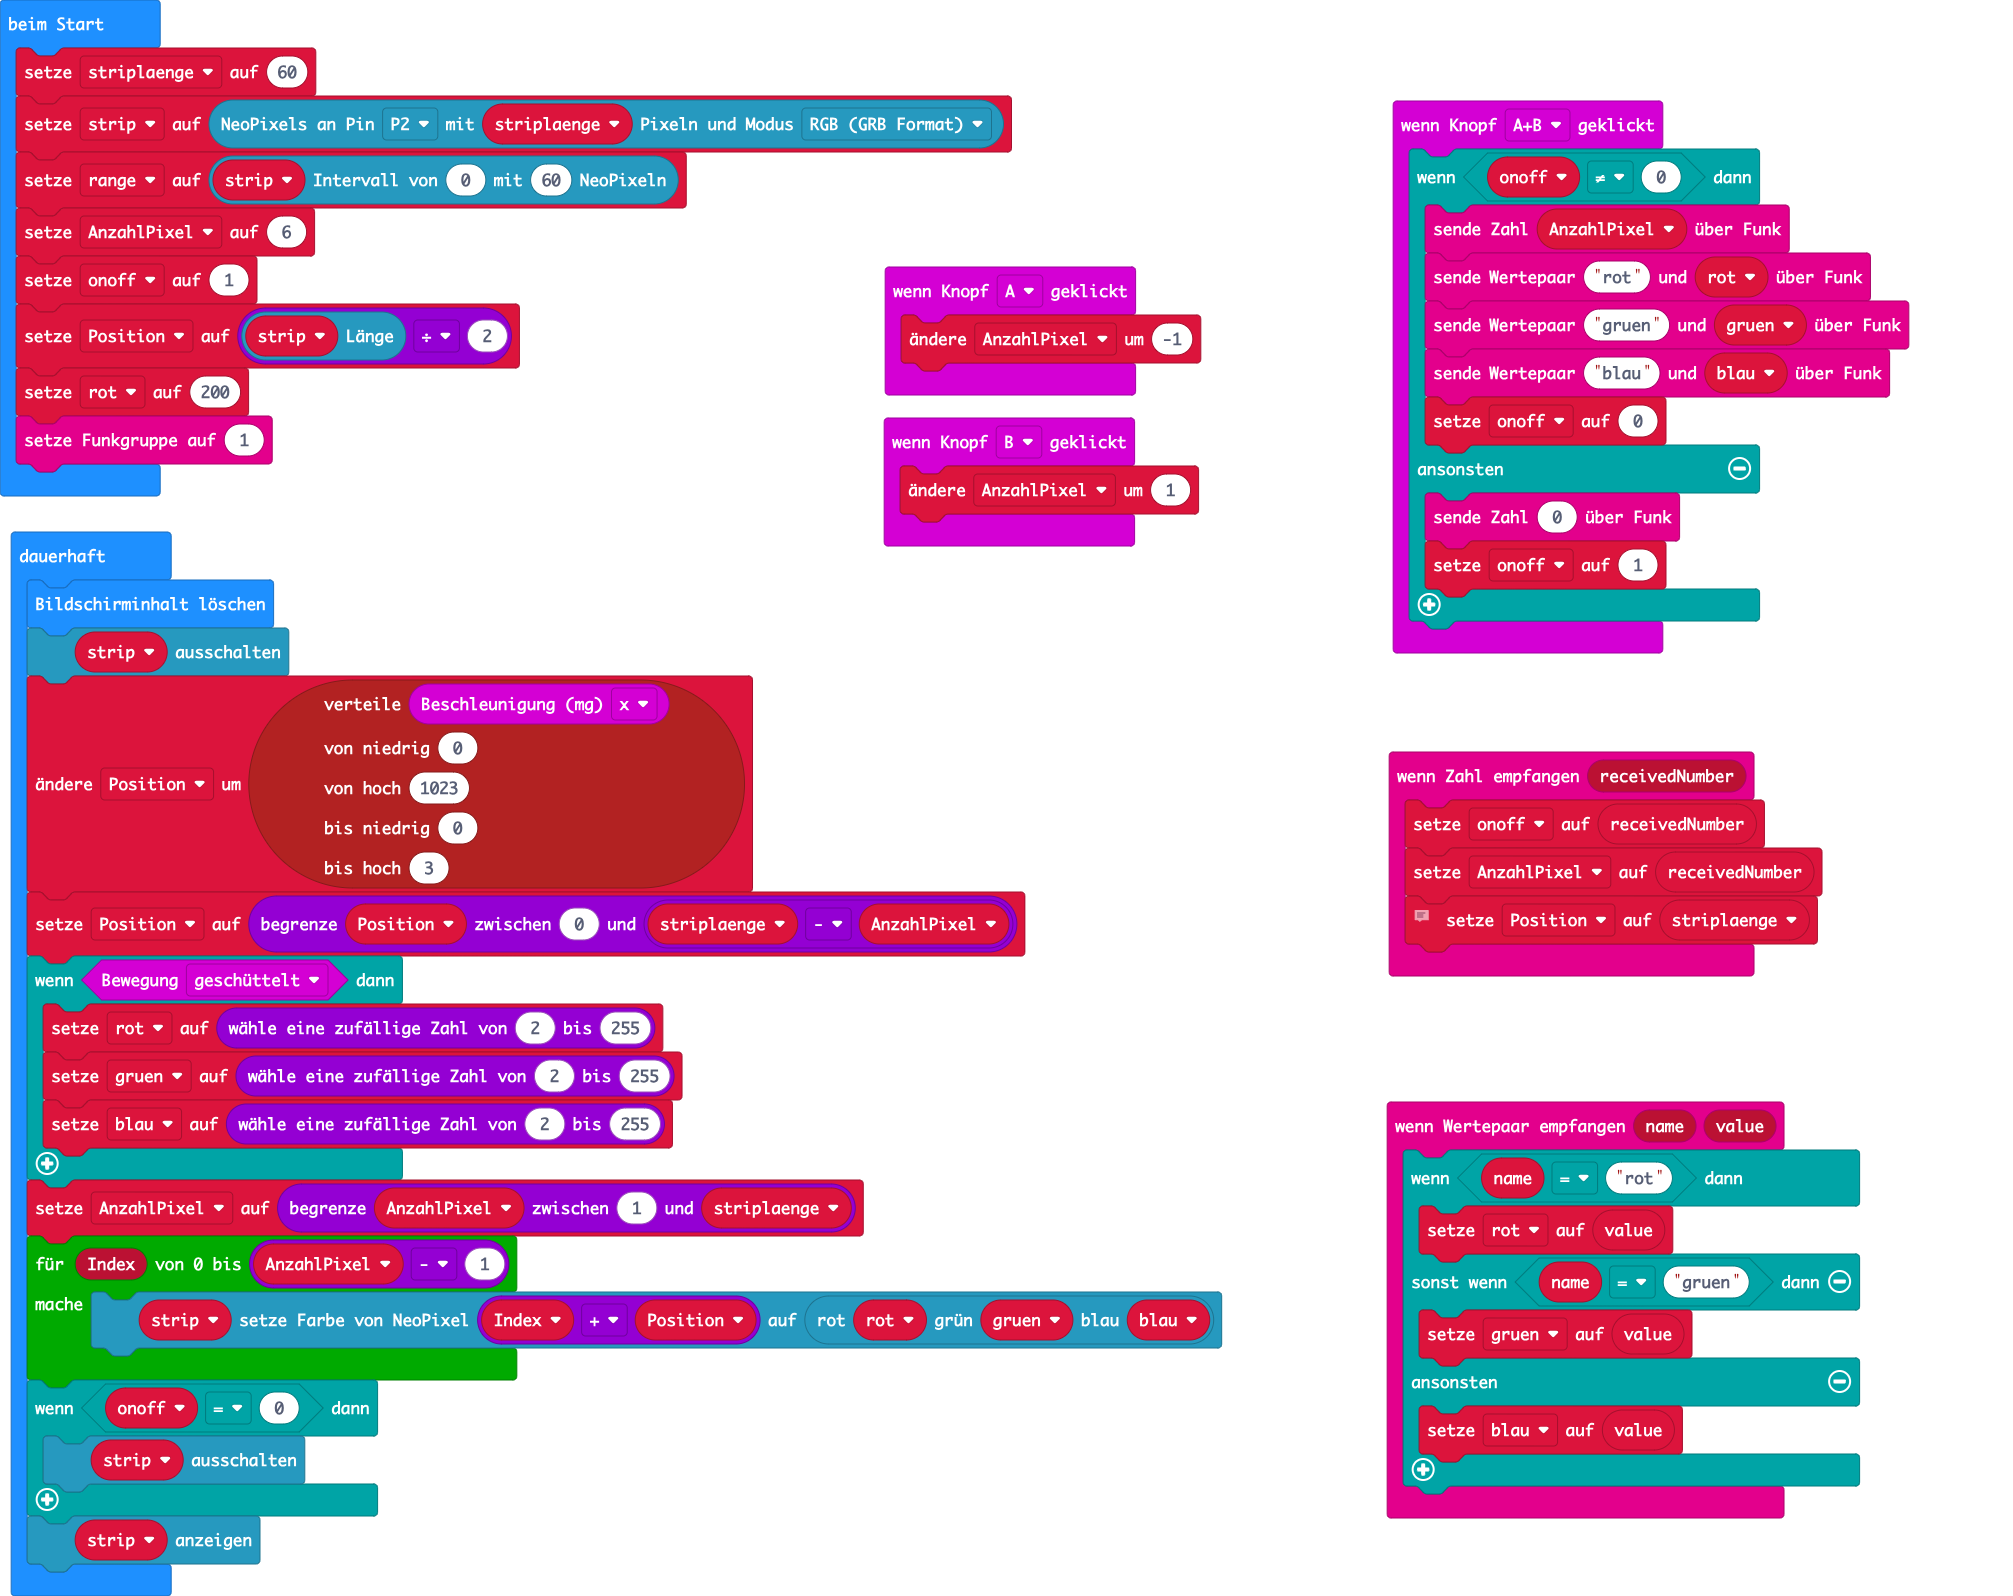
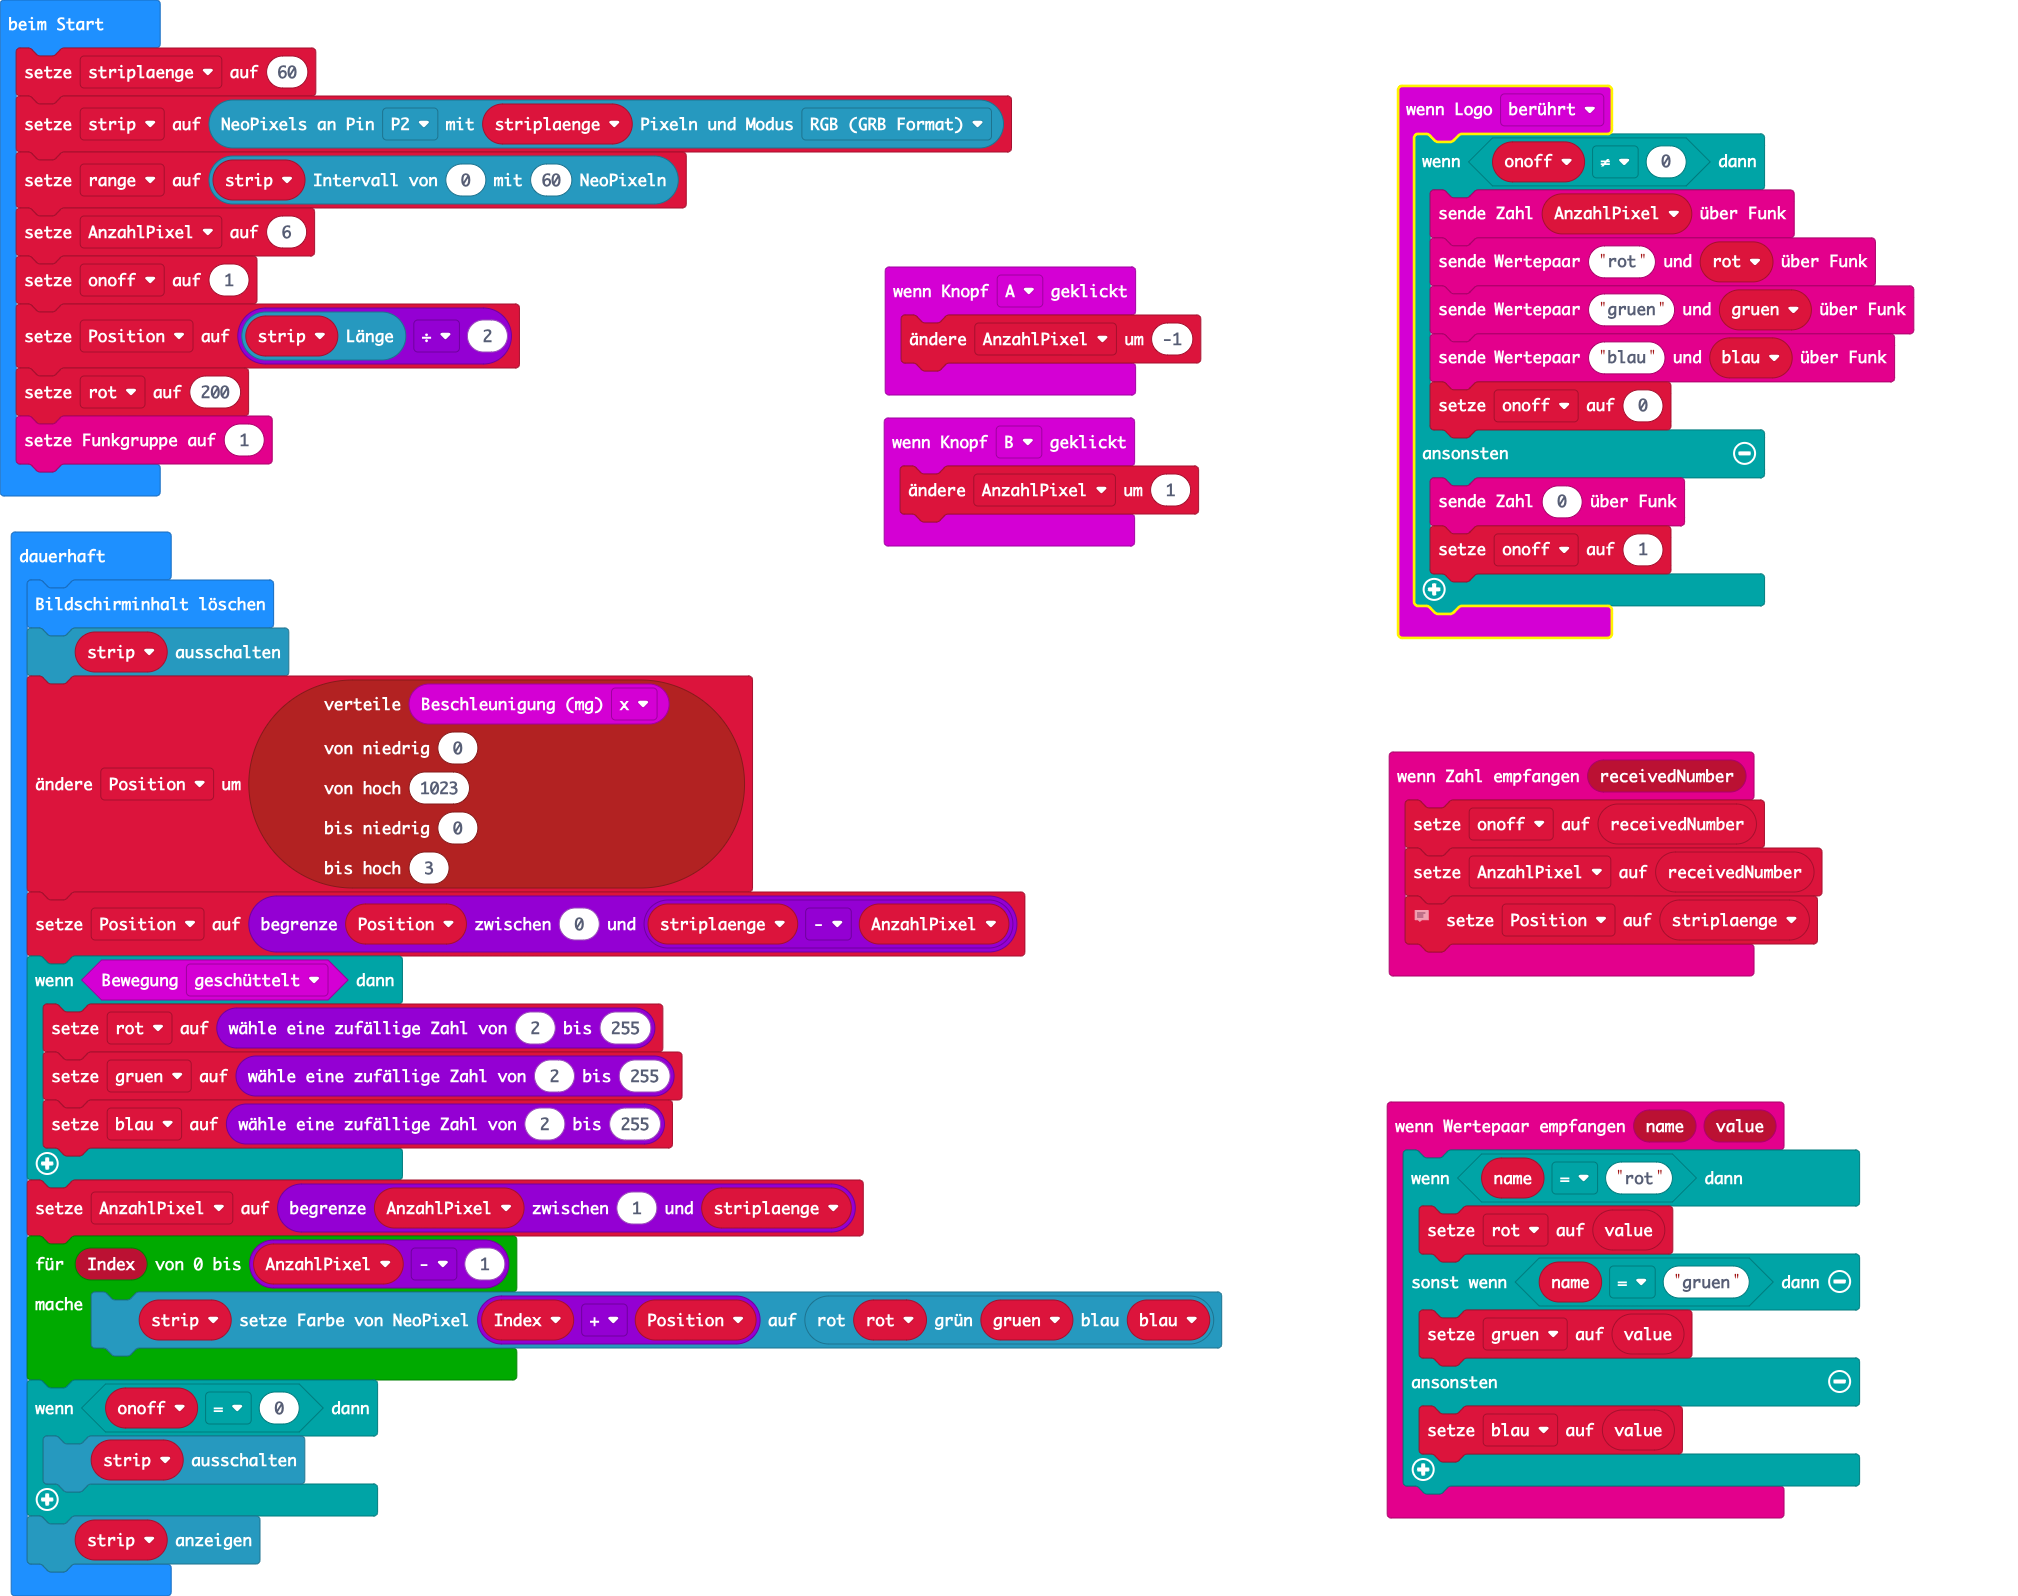
Touch-senden geändert

diff --git a/main.ts b/main.ts
@@ -4,10 +4,7 @@ radio.onReceivedNumber(function (receivedNumber) {
     // Licht wird an der Spitze empfangen
     Position = striplaenge
 })
-input.onButtonPressed(Button.A, function () {
-    AnzahlPixel += -1
-})
-input.onButtonPressed(Button.AB, function () {
+input.onLogoEvent(TouchButtonEvent.Touched, function () {
     if (onoff != 0) {
         radio.sendNumber(AnzahlPixel)
         radio.sendValue("rot", rot)
@@ -18,6 +15,9 @@ input.onButtonPressed(Button.AB, function () {
         radio.sendNumber(0)
         onoff = 1
     }
+})
+input.onButtonPressed(Button.A, function () {
+    AnzahlPixel += -1
 })
 input.onButtonPressed(Button.B, function () {
     AnzahlPixel += 1
